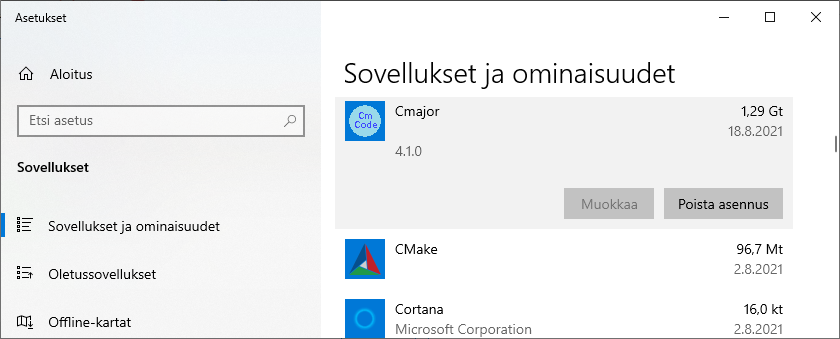
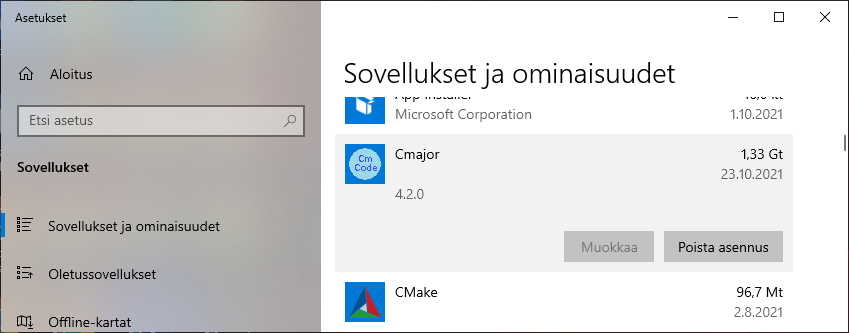
setup

diff --git a/cmajor/doc/installation/installation.html b/cmajor/doc/installation/installation.html
@@ -51,7 +51,7 @@
 	</p>
 
     <p>
-        <a href="https://sourceforge.net/projects/cmajor/files/4.1.0/cmajor-4.1.0-win-x64-setup.exe">Download</a> the setup program and run it.
+        <a href="https://sourceforge.net/projects/cmajor/files/4.2.0/cmajor-4.2.0-win-x64-setup.exe">Download</a> the setup program and run it.
         You can specify installation directory that is by default <b>C:\cmajor</b>.
         Note: the compiler needs write access to installation directory and its subdirectories,
         so C:\Program Files\ is not a good place to install.
@@ -382,12 +382,12 @@
     </h3>
 
     <ul>
-        <li><a href="https://sourceforge.net/projects/cmajor/files/4.1.0/cmajor-4.1.0-ubuntu-20.04-x86_64-binaries.tar.bz2">Download</a> pre-built binaries for x86_64 Ubuntu 20.04.</li>
-        <li>Extract the package to the directory of your choice here called <em>cmajor-4.1.0</em>.</li>
-        <li>Create an environment variable named 'CMAJOR_ROOT' and set it to point to <em>/path/to/cmajor-4.1.0</em> directory. You need to add it to your profile script to make it permanent.
+        <li><a href="https://sourceforge.net/projects/cmajor/files/4.2.0/cmajor-4.2.0-ubuntu-20.04-x86_64-binaries.tar.bz2">Download</a> pre-built binaries for x86_64 Ubuntu 20.04.</li>
+        <li>Extract the package to the directory of your choice here called <em>cmajor-4.2.0</em>.</li>
+        <li>Create an environment variable named 'CMAJOR_ROOT' and set it to point to <em>/path/to/cmajor-4.2.0</em> directory. You need to add it to your profile script to make it permanent.
 		The CMAJOR_ROOT environment variable is used by Cmajor tools to locate Cmajor Unicode database and system library source files.</li>
-        <li>Insert <em>/path/to/cmajor-4.1.0/<b>bin</b></em> directory to your PATH environment variable.</li>
-        <li>Insert <em>/path/to/cmajor-4.1.0/<b>lib</b></em> directory to your LD_LIBRARY_PATH environment variable.</li>
+        <li>Insert <em>/path/to/cmajor-4.2.0/<b>bin</b></em> directory to your PATH environment variable.</li>
+        <li>Insert <em>/path/to/cmajor-4.2.0/<b>lib</b></em> directory to your LD_LIBRARY_PATH environment variable.</li>
     </ul>
 
     <h3 id="from.sources">
@@ -395,12 +395,12 @@
     </h3>
 
     <ul>
-        <li><a href="https://sourceforge.net/projects/cmajor/files/4.1.0/cmajor-4.1.0-src.tar.bz2">Download</a> Cmajor source code with unicode db.</li>
-        <li>Extract the package to the directory of your choice here called <em>cmajor-4.1.0-src</em>.</li>
-        <li>Create an environment variable named 'CMAJOR_ROOT' and set it to point to <em>/path/to/cmajor-4.1.0-src/cmajor</em> directory. You need to add it to your profile script to make it permanent.
+        <li><a href="https://sourceforge.net/projects/cmajor/files/4.2.0/cmajor-4.2.0-src.tar.bz2">Download</a> Cmajor source code with unicode db.</li>
+        <li>Extract the package to the directory of your choice here called <em>cmajor-4.2.0-src</em>.</li>
+        <li>Create an environment variable named 'CMAJOR_ROOT' and set it to point to <em>/path/to/cmajor-4.2.0-src/cmajor</em> directory. You need to add it to your profile script to make it permanent.
 			The CMAJOR_ROOT environment variable is used by Cmajor tools to locate Cmajor Unicode database and system library source files.
 		</li>
-        <li>Change to <em>cmajor-4.1.0-src/cmajor</em> directory and run <b>make</b> from there.</li>
+        <li>Change to <em>cmajor-4.2.0-src/cmajor</em> directory and run <b>make</b> from there.</li>
         <li>
             Install the binaries and libraries by running <b>sudo make install</b>. By default binaries are installed to <em>/usr/local/bin</em> and the libraries to <em>/usr/local/lib</em>.
             You can install to a different location by giving command <b>sudo make prefix=/where/to/install install</b> instead.
@@ -498,16 +498,16 @@
         <li>
             Download and extract Cmajor sources:
             <pre>
-                wget https://sourceforge.net/projects/cmajor/files/4.1.0/cmajor-4.1.0-src.tar.bz2
-                tar xjf cmajor-4.1.0-src.tar.bz2
+                wget https://sourceforge.net/projects/cmajor/files/4.2.0/cmajor-4.2.0-src.tar.bz2
+                tar xjf cmajor-4.2.0-src.tar.bz2
             </pre>
         </li>
         <li>
-            Set CMAJOR_ROOT environment variable to point to <strong>cmajor-4.1.0-src/cmajor</strong> directory.
+            Set CMAJOR_ROOT environment variable to point to <strong>cmajor-4.2.0-src/cmajor</strong> directory.
             It must be inserted to your profile script to make it permanent.
 			The CMAJOR_ROOT environment variable is used by Cmajor tools to locate Cmajor Unicode database and system library source files.
             <pre>
-                export CMAJOR_ROOT=~/cmajor-4.1.0-src/cmajor
+                export CMAJOR_ROOT=~/cmajor-4.2.0-src/cmajor
             </pre>
         </li>
         <li>
@@ -518,9 +518,9 @@
             </pre>
         </li>
         <li>
-            Change to ~/cmajor-4.1.0-src/cmajor directory and run make:
+            Change to ~/cmajor-4.2.0-src/cmajor directory and run make:
             <pre>
-                cd ~/cmajor-4.1.0-src/cmajor
+                cd ~/cmajor-4.2.0-src/cmajor
                 make
             </pre>
         </li>
@@ -539,9 +539,9 @@
         <li>
             To test that the system basically works, change to Hello directory, compile the Hello.cmp and run it:
             <pre>
-                slaakko@pluto:~/cmajor-4.1.0-src$ cd cmajor/projects/examples/Hello
+                slaakko@pluto:~/cmajor-4.2.0-src$ cd cmajor/projects/examples/Hello
                 cmc -v Hello.cmp
-                slaakko@pluto:~/cmajor-4.1.0-src/cmajor/projects/examples/Hello$ bin/debug/Hello
+                slaakko@pluto:~/cmajor-4.2.0-src/cmajor/projects/examples/Hello$ bin/debug/Hello
                 Hello, world!
             </pre>
         </li>

diff --git a/cmajor/doc/download/download.html b/cmajor/doc/download/download.html
@@ -12,13 +12,13 @@
     <h3 class="index">Current Version</h3>
 
     <ul>
-        <a class="index" href="../rel/4.1.0/release.notes.html">Release notes</a>
-        <li class="index"><a class="index" href="https://sourceforge.net/projects/cmajor/files/4.1.0/cmajor-4.1.0-win-x64-setup.exe">Cmajor 4.1.0 for Windows x64 Setup (SourceForge)</a></li>
-        <li class="index"><a class="index" href="https://github.com/slaakko/cmajorm/releases/download/4.1.0/cmajor-4.1.0-win-x64-setup.exe">Cmajor 4.1.0 for Windows x64 Setup (GitHub)</a> </li>
-        <li class="index"><a class="index" href="https://sourceforge.net/projects/cmajor/files/4.1.0/cmajor-4.1.0-ubuntu-20.04-x86_64-binaries.tar.bz2">Cmajor 4.1.0 Pre-Built Binaries for x86_64 Ubuntu 20.04 (SourceForge)</a></li>
-        <li class="index"><a class="index" href="https://github.com/slaakko/cmajorm/releases/download/4.1.0/cmajor-4.1.0-ubuntu-20.04-x86_64-binaries.tar.bz2">Cmajor 4.1.0 Pre-Built Binaries for x86_64 Ubuntu 20.04 (GitHub)</a></li>
-        <li class="index"><a class="index" href="https://sourceforge.net/projects/cmajor/files/4.1.0/cmajor-4.1.0-src.tar.bz2">Cmajor 4.1.0 source code with unicode db (SourceForge)</a></li>
-        <li class="index"><a class="index" href="https://github.com/slaakko/cmajorm/releases/download/4.1.0/cmajor-4.1.0-src.tar.bz2">Cmajor 4.1.0 source code with unicode db (GitHub)</a></li>
+        <a class="index" href="../rel/4.2.0/release.notes.html">Release notes</a>
+        <li class="index"><a class="index" href="https://sourceforge.net/projects/cmajor/files/4.2.0/cmajor-4.2.0-win-x64-setup.exe">Cmajor 4.2.0 for Windows x64 Setup (SourceForge)</a></li>
+        <li class="index"><a class="index" href="https://github.com/slaakko/cmajorm/releases/download/4.2.0/cmajor-4.2.0-win-x64-setup.exe">Cmajor 4.2.0 for Windows x64 Setup (GitHub)</a> </li>
+        <li class="index"><a class="index" href="https://sourceforge.net/projects/cmajor/files/4.2.0/cmajor-4.2.0-ubuntu-20.04-x86_64-binaries.tar.bz2">Cmajor 4.2.0 Pre-Built Binaries for x86_64 Ubuntu 20.04 (SourceForge)</a></li>
+        <li class="index"><a class="index" href="https://github.com/slaakko/cmajorm/releases/download/4.2.0/cmajor-4.2.0-ubuntu-20.04-x86_64-binaries.tar.bz2">Cmajor 4.2.0 Pre-Built Binaries for x86_64 Ubuntu 20.04 (GitHub)</a></li>
+        <li class="index"><a class="index" href="https://sourceforge.net/projects/cmajor/files/4.2.0/cmajor-4.2.0-src.tar.bz2">Cmajor 4.2.0 source code with unicode db (SourceForge)</a></li>
+        <li class="index"><a class="index" href="https://github.com/slaakko/cmajorm/releases/download/4.2.0/cmajor-4.2.0-src.tar.bz2">Cmajor 4.2.0 source code with unicode db (GitHub)</a></li>
     </ul>
 
     <h3 class="index">Previous Versions</h3>
@@ -32,6 +32,7 @@
 	</h3>
 	
 	<ul>
+		<li class="index"><a class="index" href="../rel/4.1.0/release.notes.html"/>4.1.0</a></li>
 		<li class="index"><a class="index" href="../rel/4.0.0/release.notes.html"/>4.0.0</a></li>
 		<li class="index"><a class="index" href="../rel/3.10.0/release.notes.html"/>3.10.0</a></li>
 		<li class="index"><a class="index" href="../rel/3.9.0/release.notes.html"/>3.9.0</a></li>

diff --git a/setup/bzip2/program/data.cpp b/setup/bzip2/program/data.cpp
@@ -9,7 +9,7 @@ std::string PackageResourceName()
 
 int64_t UncompressedPackageSize()
 {
-    return 1415323708;
+    return 1431330043;
 }
 
 std::string UnicodeDBResourceName()

diff --git a/setup/deflate/program/data.cpp b/setup/deflate/program/data.cpp
@@ -9,7 +9,7 @@ std::string PackageResourceName()
 
 int64_t UncompressedPackageSize()
 {
-    return 1415323708;
+    return 1431330043;
 }
 
 std::string UnicodeDBResourceName()

diff --git a/setup/plain/program/data.cpp b/setup/plain/program/data.cpp
@@ -9,7 +9,7 @@ std::string PackageResourceName()
 
 int64_t UncompressedPackageSize()
 {
-    return 1415323708;
+    return 1431330043;
 }
 
 std::string UnicodeDBResourceName()
